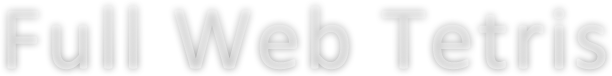
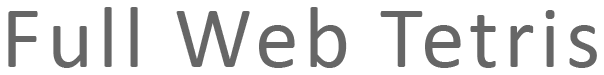
Experimenting with new design

diff --git a/s/_main.sass b/s/_main.sass
@@ -45,15 +45,15 @@ section#main
 			top: 50%
 
 		#title
-			width: 82%
-			left: 9%
+			width: 84%
+			left: 8%
 			bottom: 71%
 			position: absolute
 			height: 12%
 			background: url(g/title.png) center no-repeat
 			background-size: contain
 			overflow: visible
-			max-height: 75px
+			max-height: 90px
 
 		#big-languages
 			color: rgba(255, 255, 255, 0.3)
@@ -85,7 +85,7 @@ section#main
 		left: 0
 		right: 0
 		top: 34%
-		height: 56%
+		height: 54%
 		text-align: center
 
 		#selector
@@ -104,24 +104,21 @@ section#main
 				
 				.tile
 					+transition(color 0.15s linear 0s)
-					//+transition(box-shadow 0.15s linear 0s)
 					+transition(background-color 0.15s linear 0s)
-					background-color: rgba(255, 255, 255, 0.12)
-					background-position: 50% 32%
-					background-repeat: no-repeat
-					background-size: 60%
-					border-radius: 1px
+					//background-color: rgba(255, 255, 255, 0.12)
+					//background-position: 50% 32%
+					//background-repeat: no-repeat
+					//background-size: 60%
+					border-radius: 4px
 					color: rgba(0, 0, 0, 0.6)
 					display: block
 					float: left
 					cursor: pointer
 					margin: 0 10px
 					height: 100%
-
-					&:hover
-						color: rgba(0, 0, 0, 0.8)
-						background-color: rgba(255, 255, 255, 0.25)
-						//box-shadow: 0 0 3px rgba(0, 0, 0, 0.6)
+					font-weight: 400
+					//box-shadow: 0 0 7px rgba(0, 0, 0, 0.25)
+					//background: url(cristal.png) 0 0
 
 					.text
 						bottom: 10%
@@ -130,15 +127,24 @@ section#main
 						text-align: center
 
 					&#t0
-						background-image: url(g/tile-savedGame.png)
+						background: url(g/tile-savedGame.png) 50% 32% no-repeat rgba(0, 0, 0, 0)
+						background-size: 70%, auto
 					&#t1
-						background-image: url(g/tile-newGame.png)
+						background: url(g/tile-newGame.png) 50% 32% no-repeat rgba(0, 0, 0, 0) !important
+						background-size: 70%, auto
 					&#t2
-						background-image: url(g/tile-customize.png)
+						background: url(g/tile-customize.png) 50% 32% no-repeat rgba(0, 0, 0, 0)
+						background-size: 70%, auto
 					&#t4
-						background-image: url(g/tile-rankings.png)
+						background: url(g/tile-rankings.png) 50% 32% no-repeat rgba(0, 0, 0, 0)
+						background-size: 70%, auto
 					&#t5
-						background-image: url(g/tile-help.png)
+						background: url(g/tile-help.png) 50% 32% no-repeat rgba(0, 0, 0, 0)
+						background-size: 70%, auto
+
+				.tile:hover, .tile.tab
+					color: rgba(0, 0, 0, 0.8) !important
+					background-color: rgba(255, 255, 255, 0.35) !important
 
 	footer
 		+user-select(none)

diff --git a/s/__base.sass b/s/__base.sass
@@ -56,7 +56,7 @@ html, body
 		position: absolute
 		right: 0
 		top: -100%
-		background: #17334B url(g/wall.jpg) center no-repeat
+		background: #17334B url(http://www.magic4walls.com/wp-content/uploads/2014/01/texture-blue-fonchik-simple-dark-colors-glow-background.jpg) center no-repeat
 		background-size: cover
 
 		&.device
@@ -120,7 +120,7 @@ html, body
 	bottom: 0
 	background: url(darknoise.png) rgba(0, 0, 0, 0.7)
 	z-index: 999
-	display: block
+	display: none
 
 	#languages
 		width: 240px
